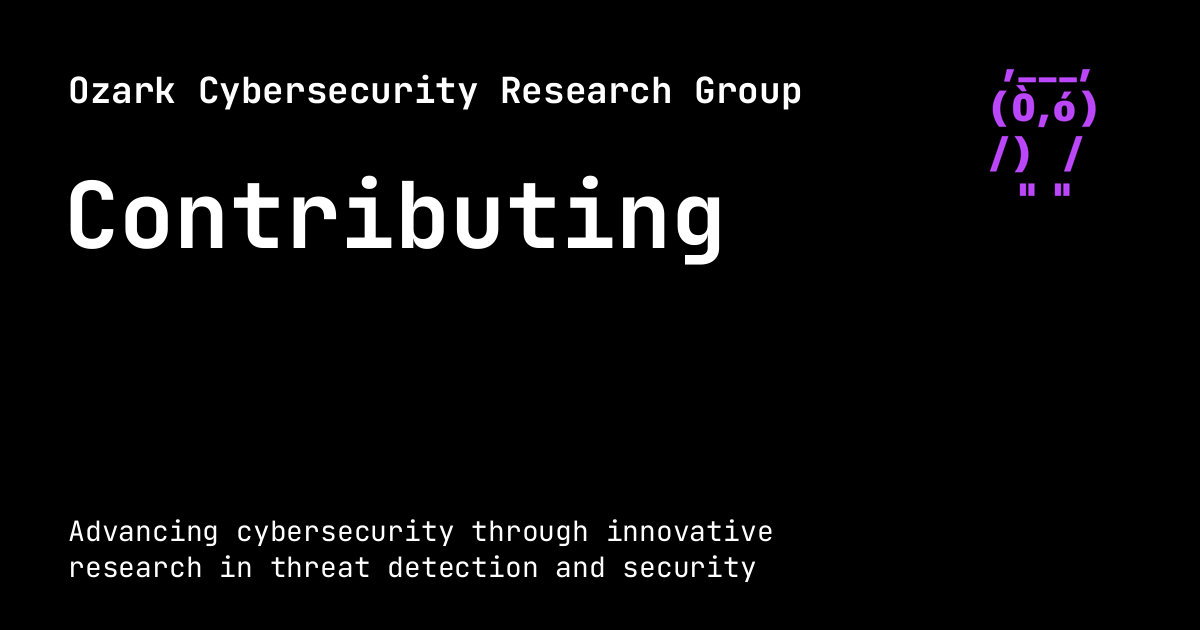
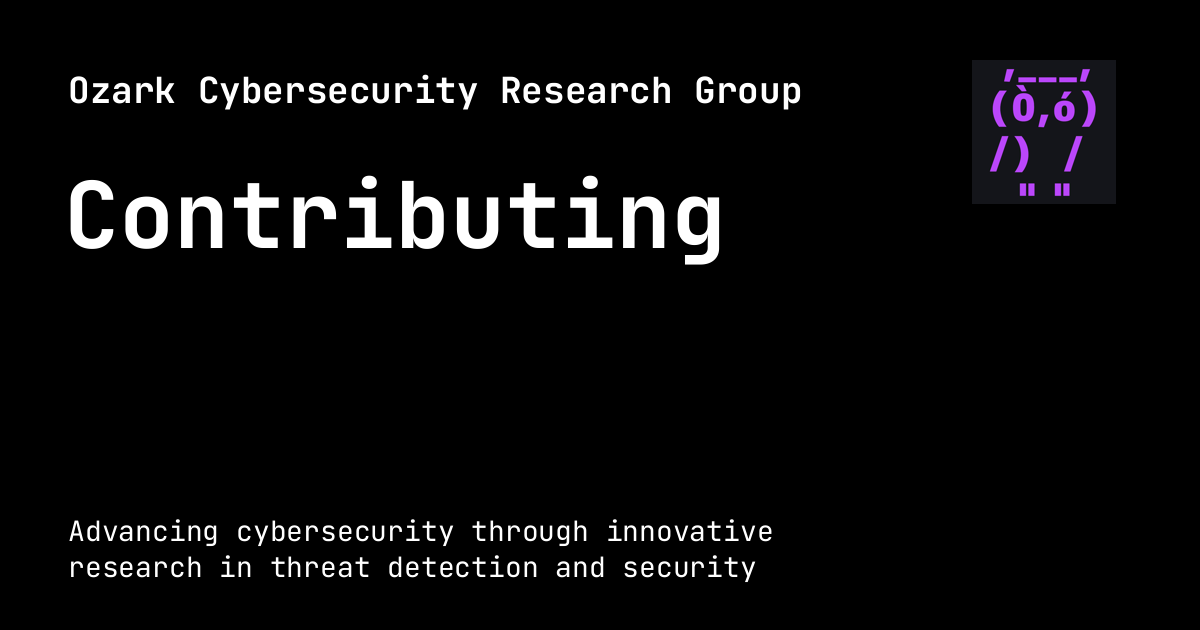
Deploying to gh-pages from @ OCRG/ocrg.github.io@85c9fcbdbe571f291982ce64b5583b0a2889bc24 🚀

Changed region(s): [[0.8017, 0.0905, 0.9558, 0.3317]]

diff --git a/research/threat-detection/index.html b/research/threat-detection/index.html
@@ -21,7 +21,7 @@
         <link rel="next" href="../../documentation/getting-started/">
       
       
-      <link rel="icon" href="../../assets/images/orcg-icon-revised.png">
+      <link rel="icon" href="../../assets/images/ocrg-icon-040.png">
       <meta name="generator" content="mkdocs-1.6.1, mkdocs-material-9.6.9">
     
     
@@ -122,7 +122,7 @@
   <nav class="md-header__inner md-grid" aria-label="Header">
     <a href="../.." title="Ozark Cybersecurity Research Group" class="md-header__button md-logo" aria-label="Ozark Cybersecurity Research Group" data-md-component="logo">
       
-  <img src="../../assets/images/orcg-icon-revised.png" alt="logo">
+  <img src="../../assets/images/ocrg-icon-040.png" alt="logo">
 
     </a>
     <label class="md-header__button md-icon" for="__drawer">
@@ -232,7 +232,7 @@
   <label class="md-nav__title" for="__drawer">
     <a href="../.." title="Ozark Cybersecurity Research Group" class="md-nav__button md-logo" aria-label="Ozark Cybersecurity Research Group" data-md-component="logo">
       
-  <img src="../../assets/images/orcg-icon-revised.png" alt="logo">
+  <img src="../../assets/images/ocrg-icon-040.png" alt="logo">
 
     </a>
     Ozark Cybersecurity Research Group

diff --git a/documentation/getting-started/index.html b/documentation/getting-started/index.html
@@ -21,7 +21,7 @@
         <link rel="next" href="../dev-best-practices/">
       
       
-      <link rel="icon" href="../../assets/images/orcg-icon-revised.png">
+      <link rel="icon" href="../../assets/images/ocrg-icon-040.png">
       <meta name="generator" content="mkdocs-1.6.1, mkdocs-material-9.6.9">
     
     
@@ -122,7 +122,7 @@
   <nav class="md-header__inner md-grid" aria-label="Header">
     <a href="../.." title="Ozark Cybersecurity Research Group" class="md-header__button md-logo" aria-label="Ozark Cybersecurity Research Group" data-md-component="logo">
       
-  <img src="../../assets/images/orcg-icon-revised.png" alt="logo">
+  <img src="../../assets/images/ocrg-icon-040.png" alt="logo">
 
     </a>
     <label class="md-header__button md-icon" for="__drawer">
@@ -232,7 +232,7 @@
   <label class="md-nav__title" for="__drawer">
     <a href="../.." title="Ozark Cybersecurity Research Group" class="md-nav__button md-logo" aria-label="Ozark Cybersecurity Research Group" data-md-component="logo">
       
-  <img src="../../assets/images/orcg-icon-revised.png" alt="logo">
+  <img src="../../assets/images/ocrg-icon-040.png" alt="logo">
 
     </a>
     Ozark Cybersecurity Research Group

diff --git a/research/steganalysis/index.html b/research/steganalysis/index.html
@@ -21,7 +21,7 @@
         <link rel="next" href="../threat-detection/">
       
       
-      <link rel="icon" href="../../assets/images/orcg-icon-revised.png">
+      <link rel="icon" href="../../assets/images/ocrg-icon-040.png">
       <meta name="generator" content="mkdocs-1.6.1, mkdocs-material-9.6.9">
     
     
@@ -122,7 +122,7 @@
   <nav class="md-header__inner md-grid" aria-label="Header">
     <a href="../.." title="Ozark Cybersecurity Research Group" class="md-header__button md-logo" aria-label="Ozark Cybersecurity Research Group" data-md-component="logo">
       
-  <img src="../../assets/images/orcg-icon-revised.png" alt="logo">
+  <img src="../../assets/images/ocrg-icon-040.png" alt="logo">
 
     </a>
     <label class="md-header__button md-icon" for="__drawer">
@@ -232,7 +232,7 @@
   <label class="md-nav__title" for="__drawer">
     <a href="../.." title="Ozark Cybersecurity Research Group" class="md-nav__button md-logo" aria-label="Ozark Cybersecurity Research Group" data-md-component="logo">
       
-  <img src="../../assets/images/orcg-icon-revised.png" alt="logo">
+  <img src="../../assets/images/ocrg-icon-040.png" alt="logo">
 
     </a>
     Ozark Cybersecurity Research Group

diff --git a/documentation/dev-best-practices/index.html b/documentation/dev-best-practices/index.html
@@ -21,7 +21,7 @@
         <link rel="next" href="../contributing/">
       
       
-      <link rel="icon" href="../../assets/images/orcg-icon-revised.png">
+      <link rel="icon" href="../../assets/images/ocrg-icon-040.png">
       <meta name="generator" content="mkdocs-1.6.1, mkdocs-material-9.6.9">
     
     
@@ -122,7 +122,7 @@
   <nav class="md-header__inner md-grid" aria-label="Header">
     <a href="../.." title="Ozark Cybersecurity Research Group" class="md-header__button md-logo" aria-label="Ozark Cybersecurity Research Group" data-md-component="logo">
       
-  <img src="../../assets/images/orcg-icon-revised.png" alt="logo">
+  <img src="../../assets/images/ocrg-icon-040.png" alt="logo">
 
     </a>
     <label class="md-header__button md-icon" for="__drawer">
@@ -232,7 +232,7 @@
   <label class="md-nav__title" for="__drawer">
     <a href="../.." title="Ozark Cybersecurity Research Group" class="md-nav__button md-logo" aria-label="Ozark Cybersecurity Research Group" data-md-component="logo">
       
-  <img src="../../assets/images/orcg-icon-revised.png" alt="logo">
+  <img src="../../assets/images/ocrg-icon-040.png" alt="logo">
 
     </a>
     Ozark Cybersecurity Research Group

diff --git a/documentation/contributing/index.html b/documentation/contributing/index.html
@@ -21,7 +21,7 @@
         <link rel="next" href="../../contact/">
       
       
-      <link rel="icon" href="../../assets/images/orcg-icon-revised.png">
+      <link rel="icon" href="../../assets/images/ocrg-icon-040.png">
       <meta name="generator" content="mkdocs-1.6.1, mkdocs-material-9.6.9">
     
     
@@ -122,7 +122,7 @@
   <nav class="md-header__inner md-grid" aria-label="Header">
     <a href="../.." title="Ozark Cybersecurity Research Group" class="md-header__button md-logo" aria-label="Ozark Cybersecurity Research Group" data-md-component="logo">
       
-  <img src="../../assets/images/orcg-icon-revised.png" alt="logo">
+  <img src="../../assets/images/ocrg-icon-040.png" alt="logo">
 
     </a>
     <label class="md-header__button md-icon" for="__drawer">
@@ -232,7 +232,7 @@
   <label class="md-nav__title" for="__drawer">
     <a href="../.." title="Ozark Cybersecurity Research Group" class="md-nav__button md-logo" aria-label="Ozark Cybersecurity Research Group" data-md-component="logo">
       
-  <img src="../../assets/images/orcg-icon-revised.png" alt="logo">
+  <img src="../../assets/images/ocrg-icon-040.png" alt="logo">
 
     </a>
     Ozark Cybersecurity Research Group

diff --git a/research/index.html b/research/index.html
@@ -21,7 +21,7 @@
         <link rel="next" href="steganalysis/">
       
       
-      <link rel="icon" href="../assets/images/orcg-icon-revised.png">
+      <link rel="icon" href="../assets/images/ocrg-icon-040.png">
       <meta name="generator" content="mkdocs-1.6.1, mkdocs-material-9.6.9">
     
     
@@ -122,7 +122,7 @@
   <nav class="md-header__inner md-grid" aria-label="Header">
     <a href=".." title="Ozark Cybersecurity Research Group" class="md-header__button md-logo" aria-label="Ozark Cybersecurity Research Group" data-md-component="logo">
       
-  <img src="../assets/images/orcg-icon-revised.png" alt="logo">
+  <img src="../assets/images/ocrg-icon-040.png" alt="logo">
 
     </a>
     <label class="md-header__button md-icon" for="__drawer">
@@ -232,7 +232,7 @@
   <label class="md-nav__title" for="__drawer">
     <a href=".." title="Ozark Cybersecurity Research Group" class="md-nav__button md-logo" aria-label="Ozark Cybersecurity Research Group" data-md-component="logo">
       
-  <img src="../assets/images/orcg-icon-revised.png" alt="logo">
+  <img src="../assets/images/ocrg-icon-040.png" alt="logo">
 
     </a>
     Ozark Cybersecurity Research Group

diff --git a/about/index.html b/about/index.html
@@ -21,7 +21,7 @@
         <link rel="next" href="../research/">
       
       
-      <link rel="icon" href="../assets/images/orcg-icon-revised.png">
+      <link rel="icon" href="../assets/images/ocrg-icon-040.png">
       <meta name="generator" content="mkdocs-1.6.1, mkdocs-material-9.6.9">
     
     
@@ -122,7 +122,7 @@
   <nav class="md-header__inner md-grid" aria-label="Header">
     <a href=".." title="Ozark Cybersecurity Research Group" class="md-header__button md-logo" aria-label="Ozark Cybersecurity Research Group" data-md-component="logo">
       
-  <img src="../assets/images/orcg-icon-revised.png" alt="logo">
+  <img src="../assets/images/ocrg-icon-040.png" alt="logo">
 
     </a>
     <label class="md-header__button md-icon" for="__drawer">
@@ -232,7 +232,7 @@
   <label class="md-nav__title" for="__drawer">
     <a href=".." title="Ozark Cybersecurity Research Group" class="md-nav__button md-logo" aria-label="Ozark Cybersecurity Research Group" data-md-component="logo">
       
-  <img src="../assets/images/orcg-icon-revised.png" alt="logo">
+  <img src="../assets/images/ocrg-icon-040.png" alt="logo">
 
     </a>
     Ozark Cybersecurity Research Group

diff --git a/index.html b/index.html
@@ -19,7 +19,7 @@
         <link rel="next" href="about/">
       
       
-      <link rel="icon" href="assets/images/orcg-icon-revised.png">
+      <link rel="icon" href="assets/images/ocrg-icon-040.png">
       <meta name="generator" content="mkdocs-1.6.1, mkdocs-material-9.6.9">
     
     
@@ -120,7 +120,7 @@
   <nav class="md-header__inner md-grid" aria-label="Header">
     <a href="." title="Ozark Cybersecurity Research Group" class="md-header__button md-logo" aria-label="Ozark Cybersecurity Research Group" data-md-component="logo">
       
-  <img src="assets/images/orcg-icon-revised.png" alt="logo">
+  <img src="assets/images/ocrg-icon-040.png" alt="logo">
 
     </a>
     <label class="md-header__button md-icon" for="__drawer">
@@ -232,7 +232,7 @@
   <label class="md-nav__title" for="__drawer">
     <a href="." title="Ozark Cybersecurity Research Group" class="md-nav__button md-logo" aria-label="Ozark Cybersecurity Research Group" data-md-component="logo">
       
-  <img src="assets/images/orcg-icon-revised.png" alt="logo">
+  <img src="assets/images/ocrg-icon-040.png" alt="logo">
 
     </a>
     Ozark Cybersecurity Research Group

diff --git a/contact/index.html b/contact/index.html
@@ -19,7 +19,7 @@
       
       
       
-      <link rel="icon" href="../assets/images/orcg-icon-revised.png">
+      <link rel="icon" href="../assets/images/ocrg-icon-040.png">
       <meta name="generator" content="mkdocs-1.6.1, mkdocs-material-9.6.9">
     
     
@@ -120,7 +120,7 @@
   <nav class="md-header__inner md-grid" aria-label="Header">
     <a href=".." title="Ozark Cybersecurity Research Group" class="md-header__button md-logo" aria-label="Ozark Cybersecurity Research Group" data-md-component="logo">
       
-  <img src="../assets/images/orcg-icon-revised.png" alt="logo">
+  <img src="../assets/images/ocrg-icon-040.png" alt="logo">
 
     </a>
     <label class="md-header__button md-icon" for="__drawer">
@@ -230,7 +230,7 @@
   <label class="md-nav__title" for="__drawer">
     <a href=".." title="Ozark Cybersecurity Research Group" class="md-nav__button md-logo" aria-label="Ozark Cybersecurity Research Group" data-md-component="logo">
       
-  <img src="../assets/images/orcg-icon-revised.png" alt="logo">
+  <img src="../assets/images/ocrg-icon-040.png" alt="logo">
 
     </a>
     Ozark Cybersecurity Research Group

diff --git a/404.html b/404.html
@@ -15,7 +15,7 @@
       
       
       
-      <link rel="icon" href="/assets/images/orcg-icon-revised.png">
+      <link rel="icon" href="/assets/images/ocrg-icon-040.png">
       <meta name="generator" content="mkdocs-1.6.1, mkdocs-material-9.6.9">
     
     
@@ -85,7 +85,7 @@
   <nav class="md-header__inner md-grid" aria-label="Header">
     <a href="/." title="Ozark Cybersecurity Research Group" class="md-header__button md-logo" aria-label="Ozark Cybersecurity Research Group" data-md-component="logo">
       
-  <img src="/assets/images/orcg-icon-revised.png" alt="logo">
+  <img src="/assets/images/ocrg-icon-040.png" alt="logo">
 
     </a>
     <label class="md-header__button md-icon" for="__drawer">
@@ -195,7 +195,7 @@
   <label class="md-nav__title" for="__drawer">
     <a href="/." title="Ozark Cybersecurity Research Group" class="md-nav__button md-logo" aria-label="Ozark Cybersecurity Research Group" data-md-component="logo">
       
-  <img src="/assets/images/orcg-icon-revised.png" alt="logo">
+  <img src="/assets/images/ocrg-icon-040.png" alt="logo">
 
     </a>
     Ozark Cybersecurity Research Group
